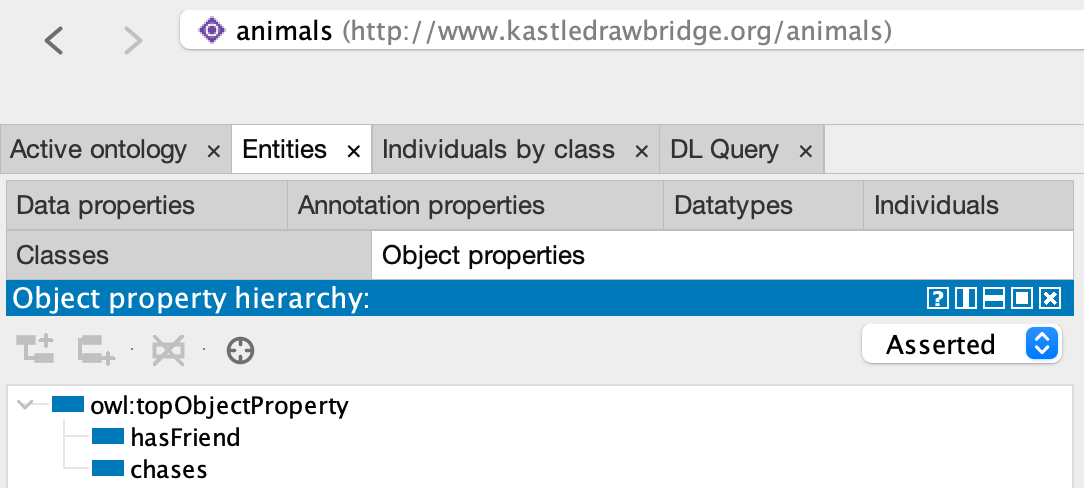
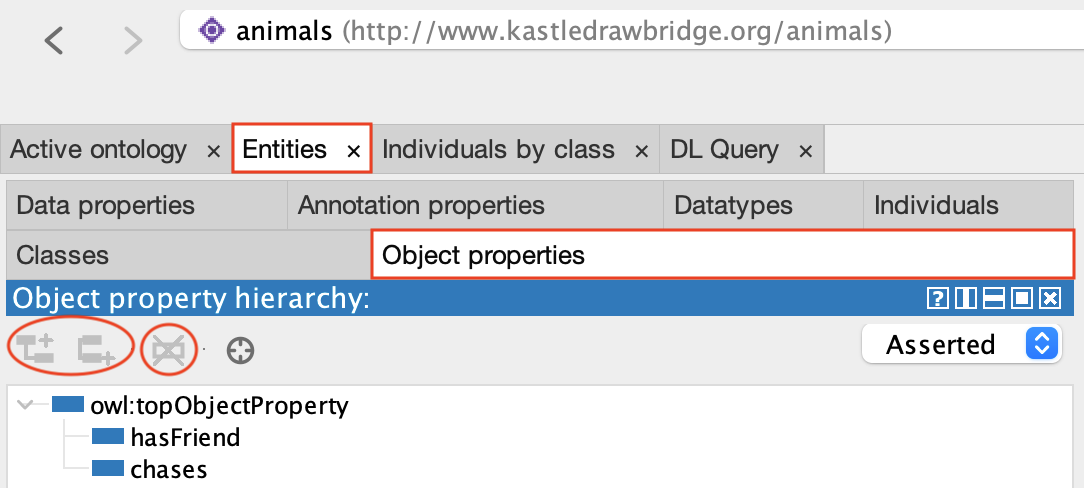
Protege updates - Annotated images - Added summaries

diff --git a/modules/knowledge-graphs/03-modeling-technologies/03-protege.md b/modules/knowledge-graphs/03-modeling-technologies/03-protege.md
@@ -1,0 +1,141 @@
+# Protégé
+
+## Prerequisites
+
+- [Knowledge Graph](../01-graphs/01-graphs.md#directed-graph): A structured representation of entities and relationships using triples ( subject - predicate - object)
+- [Axiom](../02-modeling-fundamentals/03-Axioms.md): A constraint on data that governs the relationships of things.
+
+Protégé is a free, open-source software platform used for creating and managing ontologies. It allows users to define classes (concepts), properties (attributes and relationships), and individuals (instances) along with constraints on data (axioms). By supporting standards like OWL and [RDF](sparql.md), Protégé can easily be added to a pipeline consisting of other tools.
+
+When Protégé is first opened, an `Ontology IRI` can be defined in the `Active ontology` window as shown below to act as a unique ID for the ontology and other contained items:
+
+![Ontology IRI](../../../images/protege-ontology-iri.png)
+
+## Classes
+
+A class represents a general concept or category and can be defined by navigating to the `Classes` tab (`Entities` -> `Classes`), selecting one of the already existing classes, and clicking the `Add subclass` button in the `Class hierarchy` box. Note that every class is a subclass of `owl:Thing`, which is automatically provided by Protégé whenever a new ontology is created. In addition, rather than adding a class as a subclass of another class, one can be added at the same level as another class by selecting it and clicking the `Add sibling class` button instead. If a mistake is made, a class can be deleted by selecting it and clicking the `Delete selected classes` button.
+
+##### Class Creation Summary
+
+- Go to `Entities` -> `Classes`
+- Select one of the already existing classes
+- Click the `Add subclass` button
+
+In the end, a hierarchy like the one shown below should exist. In this example, the class `Animal` is defined as a superclass of `Bird` and `Mammal`. `Mammal` is then defined as a superclass of `Mouse`, `Cat`, and `Dog`.
+
+![Classes](../../../images/protege-classes.png)
+
+### Individuals
+
+An individual (also called an instance) is a specific example of class and can be defined by navigating to the `Individuals` tab (`Entities` -> `Individuals`) and clicking the `Add individual` button in the `Individuals` box (left side). If a mistake is made, a class can be deleted by selecting it and clicking the `Delete individual` button. Once it has been created, it can be assigned a class by selecting it and clicking the `+` symbol next to `Types` in the `Description` box (lower center).
+
+##### Individual Creation Summary
+
+- Go to `Entities` -> `Individuals`
+- Click the `Add individual` button
+- Assign it a class via the `Types` section
+
+In the end, a layout similar to the one below should exist. In this example, the individuals `Cat1`, `Cat2`, `Dog`, and `Mouse1` are defined. `Cat1` is then set to be of type `Cat`.
+
+![Individuals](../../../images/protege-individuals.png)
+
+__Note__: Adding a class as a type to an individual will also add that individual as an instance of that class, as shown below in the `Description` box (lower right) of the `Classes` tab: In this example, `Cat1` and `Cat2` are shown to be instances of `Cat`.
+
+![Instances](../../../images/protege-class-instance.png)
+
+## Properties
+
+Properties define relationships between classes and individuals. There are two types: object properties and data properties.
+
+### Object Properties
+
+An object property describes a relationship between individuals and can be defined by navigating to the `Object properties` tab (`Entities` -> `Object properties`), selecting one of the already existing object properties, and clicking the `Add sub property` button in the `Object property hierarchy` box. Note that every object property is a subproperty of `owl:topObjectProperty`, which is automatically provided by Protégé whenever a new ontology is created. In addition, rather than adding an object property as a subproperty of another object property, one can be added at the same level as another object property by selecting it and clicking the `Add sibling property` button instead. If a mistake is made, an object property can be deleted by selecting it and clicking the `Delete selected properties` button.
+
+##### Object Property Creation Summary
+
+- Go to `Entities` -> `Object properties`
+- Select one of the already existing object properties
+- Click the `Add sub property` button
+
+In the end, a hierarchy like the one shown below should exist. In this example, the object properties `hasFriend` and `chases` are defined.
+
+![Object Properties](../../../images/protege-objectproperties.png)
+
+Once object properties have been defined, relationships between individuals can be asserted by again navigating to the `Individuals` tab and clicking the `+` symbol next to `Object property assertions` in the `Property assertions` box (lower right). Two boxes will appear: one to be filled with an object property name and the other to be filled with an individual name.
+
+##### Object Property Assignment Summary
+
+- Go to `Entities` -> `Individuals`
+- Select one of the already existing individuals
+- Assign it an object property and corresponding indivdiual via the `Object property assertions` section
+
+![Individual Object Properties Example](../../../images/protege-individual-objectproperty-ex.png)
+
+Once these boxes have been filled, the corresponding data should appear under `Object property assertions`. In this example, `Cat1` is asserted to have the object property `chases` with respect to the individual `Mouse1`.
+
+![Individual Object Properties](../../../images/protege-individual-objectproperty.png)
+
+### Data Properties
+
+A data property links an individual to a data value (like strings or numbers) and can be defined by navigating to the `Data properties` tab (`Entities` -> `Data properties`), selecting one of the already existing data properties, and clicking the `Add sub property` button in the `Data property hierarchy` box. Note that every data property is a subproperty of `owl:topDataProperty`, which is automatically provided by Protégé whenever a new ontology is created. In addition, rather than adding a data property as a subproperty of another data property, one can be added at the same level as another data property by selecting it and clicking the `Add sibling property` button instead. If a mistake is made, a data property can be deleted by selecting it and clicking the `Delete selected properties` button.
+
+##### Data Property Creation Summary
+
+- Go to `Entities` -> `Data properties`
+- Select one of the already existing data properties
+- Click the `Add sub property` button
+
+In the end, a hierarchy like the one shown below should exist. In this example, the data properties `hasAgeInYears` and `hasName` are defined.
+
+![Data Properties](../../../images/protege-dataproperties.png)
+
+Once data properties have been defined, relationships between individuals and data values can be asserted by again navigating to the `Individuals` tab and clicking the `+` symbol next to `Data property assertions` in the `Property assertions` box (lower right). Three boxes will appear: one for selecting a data property from the hierarchy, one for specifying the value of the data, and one for specifying the datatype.
+
+##### Object Property Assignment Summary
+
+- Go to `Entities` -> `Individuals`
+- Select one of the already existing individuals
+- Assign it a data property and corresponding indivdiual via the `Data property assertions` section
+
+![Individual Data Properties Example](../../../images/protege-individual-dataproperty-ex.png)
+
+Once these boxes have been filled, the corresponding data should appear under `Data property assertions`. In this example, `Cat1` is asserted to have the data property `hasName` with respect to the string `"Tom"`.
+
+![Individual Data Properties](../../../images/protege-individual-dataproperty.png)
+
+## Datatypes
+
+A datatype, as discussed briefly above, specifies the kind of literal value a data property can hold. While new datatypes can be defined by navigating to the `Datatypes` tab (`Entities` -> `Datatypes`) and clicking the `Add datatype` button (or deleted by clicking the `Delete datatype` button) in the `Datatypes` box, several have been predefined and are ready to use from the start. These predefined datatypes are shown below:
+
+##### Datatype Creation Summary
+
+- Go to `Entities` -> `Datatypes`
+- Click the `Add datatype` button
+
+![Datatypes](../../../images/protege-datatypes.png)
+
+## Axioms
+
+An axiom, as defined in the [Prerequisites](#prerequisites), can be defined between classes by navigating to the `Classes` tab, selecting one of the already existing classes, and clicking the `General class axioms` button in the `Description` box (lower right). The axioms can then be entered (one per line) in the box that appears. Note that special keywords will appear highlighted.
+
+##### Axiom Definition Summary
+- Go to `Entities` -> `Classes`
+- Select one of the already existing classes
+- Assign it an axiom via the `General class axioms` section
+
+![Axiom Example](../../../images/protege-axiom-ex.png)
+
+Once this box have been filled, the corresponding data should appear under `General class axioms` or, as in this case, under `Disjoint With` due the assertion of a special axiom. In this example, the class `Mammal` is asserted to be disjoint with the class `Bird`.
+
+![Axioms](../../../images/protege-axiom.png)
+
+## Outputs
+
+When the ontology is complete, it can be saved in one of the formats shown below. If using Apache Jena Fuseki during the Materialization phase, it is recommended to use `Turtle Syntax`. The complete ontology portrayed in this example is the [AnimalExample.ttl](../Supplementary-material/AnimalExample.ttl) file.
+
+![Output](../../../images/protege-output.png)
+
+## References
+
+[1] [Protégé](https://protege.stanford.edu/)
+
